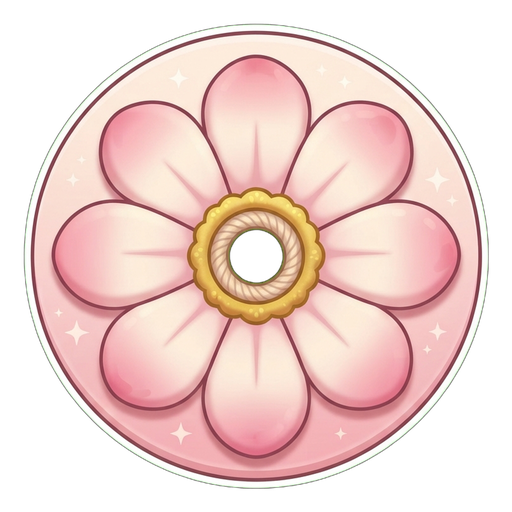
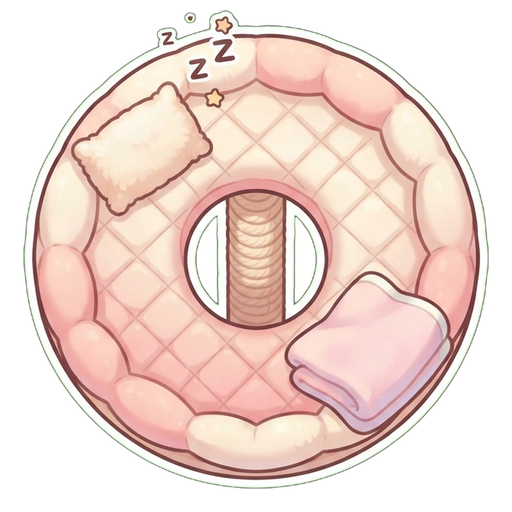
Process new/updated platform variants; add v12 to the pool
You swapped fresh art into safe variants v6/v7/v10 and added v12, but they
were dropped in raw (1024px, opaque dark haze, disc smaller than the ring),
which would bring back the gray halo + danger-bulge. Ran them through the
same offline pipeline as the others: de-haze, scale the disc to fill the
ring mask (~186), downscale to 512.

- Wire platformSafe12; safeTexPool now spans 12 safe designs.
- v6 wooden dish / v7 quilted cushion / v10 brick+mice / v12 paw mat.

Verified in-browser: all render as clean full rings (no halo, no bulge),
pool size 12, no console errors.

diff --git a/src/entities/Tower.js b/src/entities/Tower.js
@@ -40,7 +40,7 @@ class Tower {
     // none of the clipping/bulge the old toy/bowl mats caused.
     this.safeTexPool = ['platformSafe', 'platformSafe2', 'platformSafe3', 'platformSafe4',
       'platformSafe5', 'platformSafe6', 'platformSafe7', 'platformSafe8', 'platformSafe9',
-      'platformSafe10', 'platformSafe11'].filter((k) => hasTex(scene, k));
+      'platformSafe10', 'platformSafe11', 'platformSafe12'].filter((k) => hasTex(scene, k));
     if (!this.safeTexPool.length) this.safeTexPool = [PLATFORM_TEX[SEGMENT_TYPE.SAFE]];
 
     scene.events.once('shutdown', () => this.destroy());

diff --git a/src/config/assetMap.js b/src/config/assetMap.js
@@ -34,6 +34,7 @@ const ASSET_MAP = {
     platformSafe9:  'assets/platform_safe_v9.png',
     platformSafe10: 'assets/platform_safe_v10.png',
     platformSafe11: 'assets/platform_safe_v11.png',
+    platformSafe12: 'assets/platform_safe_v12.png',
     platformDanger: 'assets/tower_danger.png',
     platformBounce: 'assets/tower_cushion.png',
 